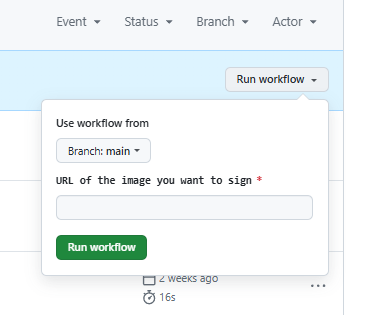
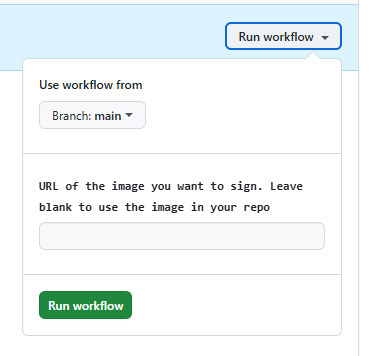
fix

diff --git a/README-ZH.md b/README-ZH.md
@@ -13,6 +13,8 @@
 
 > [!NOTE]  
 > 对应的工作流名：`Sign image (avbtool)`
+>
+> 需要上传的文件: `你想要签名的分区.img` `vbmeta.img`
 
 用avbtool给你的镜像签名。可以看[这个](https://www.hovatek.com/forum/thread-32664.html)和[这个](https://www.hovatek.com/forum/thread-32674.html)教程来了解签名的原理。
 
@@ -30,6 +32,8 @@
 
 > [!NOTE]  
 > 对应的工作流名：`Sign image (Legacy)`
+>
+> 需要上传的文件: `你想要签名的分区.img`
 
 用展讯自己的BSP签名工具签名镜像。
 
@@ -51,9 +55,21 @@
 1. **使用`Fork`或`Use this template`以克隆仓库到你的账号里**
 ![image](.res/1.png)
 
-2. **把镜像上传到一个能获取文件直链的地方。你可以把你的镜像上传到你的仓库里，然后用"View raw"拿到文件直链**
+2. **把镜像上传到一个能获取文件直链的地方。一个传统的方法是，你可以把你的镜像上传到你的仓库里，然后用"View raw"拿到文件直链**
 ![image](.res/2.png)
 ![image](.res/3.png)
+
+- **但是你想想啊我tm都上传到这个仓库里了，这工作流不是可以直接自取了吗，还费那劲拿直链那不傻福吗？所以现在只要命名正确，就可以省下获取直链那一步**
+
+- 如果选择avbtool大法：
+
+![image](.res/9.png)
+
+嫌乱？你就受着呗
+
+- 如果选择bsp大法：
+
+文件重命名为`image.img`即可
 
 3. **打开`Actions`页面，然后选择一个合适的工作流。读读上面的[介绍](#介绍)能帮你选择到正确的工作流**
 ![image](.res/4.png)
@@ -61,7 +77,7 @@
 4. **按下`Run workflow`按钮，然后把参数都填上**
 ![image](.res/5.png)
 
-- 如果你用的是`Sign image (Legacy)`，你只用填一个参数就行了。
+- 如果你用的是`Sign image (Legacy)`，你只用填一个参数就行了。（甚至可以全部不填）
 
 ![image](.res/6.png)
 
@@ -69,7 +85,7 @@
 
 ![image](.res/7.png)
 
-- 可能有人不会填第四个参数，这里笔者给个办法，就是回读一下boot/recovery分区，然后把提出来的文件的大小填进去就行了。**如果你操作有误，文件大小可能会发生变化，那样就不准了**
+- 可能有人不会填第四个参数，这里笔者给个办法，就是完整回读一下boot/recovery分区，多余部分不用裁掉，然后把提出来的文件的大小填进去就行了。**如果你操作有误，文件大小可能会发生变化，那样就不准了**
 
 5. **点`Run workflow`之后，啪的一下，很快啊，镜像就签好了。签完的镜像传到Artifacts上了，自行下载即可**
 ![image](.res/8.png)

diff --git a/README.md b/README.md
@@ -15,6 +15,8 @@ As I know, two sign method are used by Unisoc. Please choose different signature
 
 > [!NOTE]  
 > Workflow name: `Sign image (avbtool)`
+>
+> Files need to be uploaded : `partition-u-want-to-sign.img` `vbmeta.img`
 
 Use `avbtool` to sign the image. Check [here](https://www.hovatek.com/forum/thread-32664.html) and [here](https://www.hovatek.com/forum/thread-32674.html) if you want to know how does it work.
 
@@ -32,6 +34,8 @@ SoCs using this method:
 
 > [!NOTE]  
 > Workflow name: `Sign image (Legacy)`
+>
+> Files need to be uploaded : `partition-u-want-to-sign.img`
 
 Use Unisoc's BSP sign tool to sign the image. 
 
@@ -53,9 +57,21 @@ You should provide `boot\recovery` image you want to sign. Original `vbmeta` ima
 1. **Use `Fork` or `Use this template` to clone this reposity to your personal account**
 ![image](.res/1.png)
 
-2. **Upload your image to somewhere that can get the DIRECT LINK to your image. For example, I upload my image to this reposity and used "View raw" to get the link.**
+2. **Upload your image. There are 2 methods. The conventional one is to upload it to somewhere that can get the DIRECT LINK to your image. For example, I upload my image to this reposity and used "View raw" to get the link.**
 ![image](.res/2.png)
 ![image](.res/3.png)
+
+- **However, I did upload the image to my repo, thus the workflow ABSOLUTELY has the ability to get them. Just name it correctly according to the instructions in the following captures.**
+
+- If using avbtool method:
+
+![image](.res/9.png)
+
+a bit messy, sorry for that
+
+- If using BSP sign method:
+
+Rename your file to `image.img`. That's all.
 
 3. **Open the `Actions` tab and choose a workflow. Read the [introduce](#introduce) to help you make decision.**
 ![image](.res/4.png)
@@ -71,7 +87,7 @@ You should provide `boot\recovery` image you want to sign. Original `vbmeta` ima
 
 ![image](.res/7.png)
 
-- The fourth parameter may be confusing. You can read back the boot/recovery partition of your device **without trimming zeros**. The size of the output file is the value of this parameter.
+- The fourth parameter may be confusing. You can read back the boot/recovery partition of your device **without trimming zeros**. The size of the output file should be the value of this parameter.
 
 5. **It wont take much time. After few seconds, the signed image will be uploaded to artifact. You can download it right now and flash into your device!**
 ![image](.res/8.png)
